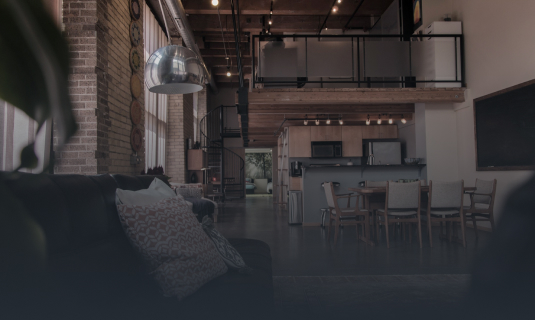
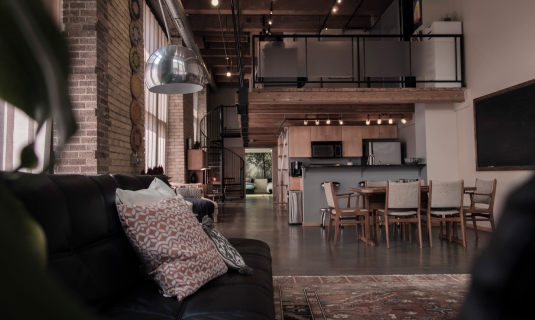
add gradient

diff --git a/index.html b/index.html
@@ -53,100 +53,108 @@
       </div>
     </div>
   </header>
-  <div class="benefits">
-    <div class="benefits__row">
-      <ul class="benefits__list">
-        <li class="benefits__item">
-          <img class="benefits__img" src="img/benefits-1.svg" alt="">
-          <p class="benefits__text">Рядом исторические парки и скверы</p>
-        </li>
-        <li class="benefits__item">
-          <img class="benefits__img" src="img/benefits-2.svg" alt="">
-          <p class="benefits__text">Полностью обустроенный</p>
-        </li>
-        <li class="benefits__item">
-          <img class="benefits__img" src="img/benefits-3.svg" alt="">
-          <p class="benefits__text">10 фонтанов на территории</p>
-        </li>
-        <li class="benefits__item">
-          <img class="benefits__img" src="img/benefits-4.svg" alt="">
-          <p class="benefits__text">6 км велодорожек</p>
-        </li>
-      </ul>
-    </div>
-    <section class="apartments">
+  <main class="main">
+    <div class="benefits">
+      <div class="benefits__row">
+        <ul class="benefits__list">
+          <li class="benefits__item">
+            <img class="benefits__img" src="img/benefits-1.svg" alt="">
+            <p class="benefits__text">Рядом исторические парки и скверы</p>
+          </li>
+          <li class="benefits__item">
+            <img class="benefits__img" src="img/benefits-2.svg" alt="">
+            <p class="benefits__text">Полностью обустроенный</p>
+          </li>
+          <li class="benefits__item">
+            <img class="benefits__img" src="img/benefits-3.svg" alt="">
+            <p class="benefits__text">10 фонтанов на территории</p>
+          </li>
+          <li class="benefits__item">
+            <img class="benefits__img" src="img/benefits-4.svg" alt="">
+            <p class="benefits__text">6 км велодорожек</p>
+          </li>
+        </ul>
+      </div>
+      <section class="apartments">
+        <div class="container">
+          <h2 class="apartments__title title">Наши квартиры</h2>
+          <div class="apartments__cards">
+            <div class="apartments__card">
+              <img class="apartments__img" src="img/apartments1.jpg" alt="">
+              <div class="apartments__wrapper">
+                <p class="apartments__text">Лофт — 3 этажа</p>
+              </div>
+            </div>
+            <div class="apartments__card">
+              <img class="apartments__img" src="img/apartments2.jpg" alt="">
+              <div class="apartments__wrapper">
+                <p class="apartments__text">Лофт — 3 этажа</p>
+              </div>
+            </div>
+            <div class="apartments__card">
+              <img class="apartments__img" src="img/apartments1.jpg" alt="">
+              <div class="apartments__wrapper">
+                <p class="apartments__text">Лофт — 3 этажа</p>
+              </div>
+            </div>
+            <div class="apartments__card">
+              <img class="apartments__img" src="img/apartments2.jpg" alt="">
+              <div class="apartments__wrapper">
+                <p class="apartments__text">Лофт — 3 этажа</p>
+              </div>
+            </div>
+          </div>
+        </div>
+      </section>
+      <section class="look">
+        <div class="look__container container">
+          <div class="look__content">
+            <h2 class="look__title title">Хотите посмотреть?</h2>
+            <p class="look__text">Lorem Ipsum - это текст-"рыба", часто используемый в печати и вэб-дизайне. Lorem Ipsum
+              является стандартной "рыбой" для текстов на латинице с начала XVI века. В то время некий безымянный печатник
+              создал большую коллекцию размеров и форм шрифтов, используя Lorem Ipsum для распечатки образцов. </p>
+          </div>
+          <form class="look__form" action="" method="get">
+            <input class="look__form-name form-name" type="text" name="name" placeholder="Ваше имя">
+            <input class="look__form-phone form-phone" type="email" name="email" placeholder="Ваш телефон">
+            <p class="look__form-text">*Мы никому не передаем ваши данные. И не сохраняем ваш номер в базу.</p>
+            <a class="form-btn" href="#">Посмотреть район</a>
+          </form>
+        </div>
+      </section>
+      <div class="video">
       <div class="container">
-        <h2 class="apartments__title title">Наши квартиры</h2>
-        <div class="apartments__cards">
-          <div class="apartments__card">
-            <img class="apartments__img" src="img/apartments1.jpg" alt="">
-            <p class="apartments__text">Лофт — 3 этажа</p>
-          </div>
-          <div class="apartments__card">
-            <img class="apartments__img" src="img/apartments2.jpg" alt="">
-            <p class="apartments__text">Лофт — 2 этажа</p>
-          </div>
-          <div class="apartments__card">
-            <img class="apartments__img" src="img/apartments1.jpg" alt="">
-            <p class="apartments__text">Лофт — 3 этажа</p>
-          </div>
-          <div class="apartments__card">
-            <img class="apartments__img" src="img/apartments2.jpg" alt="">
-            <p class="apartments__text">Лофт — 2 этажа</p>
-          </div>
+        <div class="video__wrapper">
+          <iframe class="video-iframe" src="https://www.youtube.com/embed/V8JrSH0asUA" title="YouTube video player" frameborder="0" allow="accelerometer; autoplay; clipboard-write; encrypted-media; gyroscope; picture-in-picture" allowfullscreen></iframe>
+          <a class="video__poster" href="#">
+            <img class="video__poster-img" src="img/video-poster.jpg" alt="">
+            <img class="video__poster-btn" src="img/play-button.png" alt="">
+          </a>
+        </div>
+      </div>
+    </div>
+  <section class="map">
+      <div class="container">
+        <h2 class="map__title title">
+          Район на карте
+        </h2>
+        <div class="map__wrapper">
+          <iframe class="map-frame" src="https://www.google.com/maps/embed?pb=!1m18!1m12!1m3!1d1998.2444236738613!2d30.337633851602792!3d59.94467898178943!2m3!1f0!2f0!3f0!3m2!1i1024!2i768!4f13.1!3m3!1m2!1s0x4696317353b89bb9%3A0x4a5baf20e1544c1b!2z0L3QsNCx0LXRgNC10LbQvdCw0Y8g0YDQtdC60Lgg0KTQvtC90YLQsNC90LrQuCwgMTAsINCh0LDQvdC60YIt0J_QtdGC0LXRgNCx0YPRgNCzLCAxOTExODc!5e0!3m2!1sru!2sru!4v1649524079451!5m2!1sru!2sru" style="border:0;" allowfullscreen="" loading="lazy" referrerpolicy="no-referrer-when-downgrade"></iframe>
         </div>
       </div>
     </section>
-    <section class="look">
-      <div class="look__container container">
-        <div class="look__content">
-          <h2 class="look__title title">Хотите посмотреть?</h2>
-          <p class="look__text">Lorem Ipsum - это текст-"рыба", часто используемый в печати и вэб-дизайне. Lorem Ipsum
-            является стандартной "рыбой" для текстов на латинице с начала XVI века. В то время некий безымянный печатник
-            создал большую коллекцию размеров и форм шрифтов, используя Lorem Ipsum для распечатки образцов. </p>
-        </div>
-        <form class="look__form" action="" method="get">
-          <input class="look__form-name form-name" type="text" name="name" placeholder="Ваше имя">
-          <input class="look__form-phone form-phone" type="email" name="email" placeholder="Ваш телефон">
-          <p class="look__form-text">*Мы никому не передаем ваши данные. И не сохраняем ваш номер в базу.</p>
+    <section class="question">
+      <div class="container">
+        <h2 class="question__title title">Есть вопросы?</h2>
+        <form class="question__form" action="" method="get">
+          <p class="question__form-text">*Мы никому не передаем ваши данные. И не сохраняем ваш номер в базу.</p>
+          <input class="form-name" type="text" name="name" placeholder="Ваше имя">
+          <input class="form-phone" type="email" name="email" placeholder="Ваш телефон">
           <a class="form-btn" href="#">Посмотреть район</a>
         </form>
       </div>
     </section>
-    <div class="video">
-    <div class="container">
-      <div class="video__wrapper">
-        <iframe width="560" height="315" src="https://www.youtube.com/embed/V8JrSH0asUA" title="YouTube video player" frameborder="0" allow="accelerometer; autoplay; clipboard-write; encrypted-media; gyroscope; picture-in-picture" allowfullscreen></iframe>
-        <a class="video__poster" href="#">
-          <img class="video__poster-img" src="img/video-poster.jpg" alt="">
-        </a>
-        <a class="video__poster-btn" href="#">
-          <img class="video__poster-btn-img" src="img/play-button.png" alt="">
-        </a>
-      </div>
-    </div>
-  </div>
-<section class="map">
-    <div class="container">
-      <h2 class="map__title title">
-        Район на карте
-      </h2>
-      <div class="map__wrapper">
-        <iframe class="map-frame" src="https://www.google.com/maps/embed?pb=!1m18!1m12!1m3!1d1998.2444236738613!2d30.337633851602792!3d59.94467898178943!2m3!1f0!2f0!3f0!3m2!1i1024!2i768!4f13.1!3m3!1m2!1s0x4696317353b89bb9%3A0x4a5baf20e1544c1b!2z0L3QsNCx0LXRgNC10LbQvdCw0Y8g0YDQtdC60Lgg0KTQvtC90YLQsNC90LrQuCwgMTAsINCh0LDQvdC60YIt0J_QtdGC0LXRgNCx0YPRgNCzLCAxOTExODc!5e0!3m2!1sru!2sru!4v1649524079451!5m2!1sru!2sru" style="border:0;" allowfullscreen="" loading="lazy" referrerpolicy="no-referrer-when-downgrade"></iframe>
-      </div>
-    </div>
-  </section>
-  <section class="question">
-    <div class="container">
-      <h2 class="question__title title">Есть вопросы?</h2>
-      <form class="question__form" action="" method="get">
-        <p class="question__form-text">*Мы никому не передаем ваши данные. И не сохраняем ваш номер в базу.</p>
-        <input class="form-name" type="text" name="name" placeholder="Ваше имя">
-        <input class="form-phone" type="email" name="email" placeholder="Ваш телефон">
-        <a class="form-btn" href="#">Посмотреть район</a>
-      </form>
-    </div>
-  </section>
+  </main>
   <footer class="footer">
     <div class="footer__container container">
       <a class="footer__logo logo" href="#">

diff --git a/css/style.css b/css/style.css
@@ -51,7 +51,7 @@ body{
 
 }
 .header{
-  background-image: url(../img/header-bg.jpg);
+  background: linear-gradient(180deg, #242B33 11.98%, rgba(45, 52, 60, 0.38) 51.04%, #242B33 92.19%),url(../img/header-bg.jpg);
   min-height: 100vh;
   background-repeat: no-repeat;
   background-position: center;
@@ -146,6 +146,15 @@ body{
 .apartments__card{
   position: relative;
 }
+.apartments__wrapper{
+  position: absolute;
+  width: 100%;
+  height: 100%;
+  left: 0;
+  top: 0;
+  background-blend-mode: overlay;
+  background-image: linear-gradient(180deg, rgba(36, 43, 51, 0) 0%, #242B33 100%);
+}
 .apartments__text{
   position: absolute;
   left: 50px;
@@ -223,7 +232,6 @@ body{
   margin-right: 30px;
 }
 .form-btn{
-  /* padding: 11px 54px; */
   font-weight: 700;
   font-size: 16px;
   line-height: 27px;
@@ -246,6 +254,12 @@ body{
 .video__wrapper{
   position: relative;
   max-width: 719px;
+  margin: 0 auto;
+  overflow: hidden;
+}
+.video-iframe{
+  width: 100%;
+  min-height: 650px;
 }
 .video__poster{
   position: absolute;
@@ -255,15 +269,15 @@ body{
   height: 100%;
 }
 .video__poster-img{
-  max-width: 100%;
+  width: 100%;
+  min-height: 100%;
+  object-fit: cover;
 }
 .video__poster-btn{
   position: absolute;
-  top: 50%;
-  left: 50%;
-  width: 100%;
-  height: 100%;
-}
+  top: calc(50% - 50px);
+  left: calc(50% - 50px);
+} 
 .map{
   margin-bottom: 180px;
 }
@@ -296,13 +310,13 @@ body{
 }
 .footer{
   background: #2D343C;
-  min-height: 272px;
 }
 .footer__container{
   display: flex;
   justify-content: space-between;
   align-items: center;
   height: 100%;
+  min-height: 272px;
 }
 .footer__item-social-list{
   display: flex;
